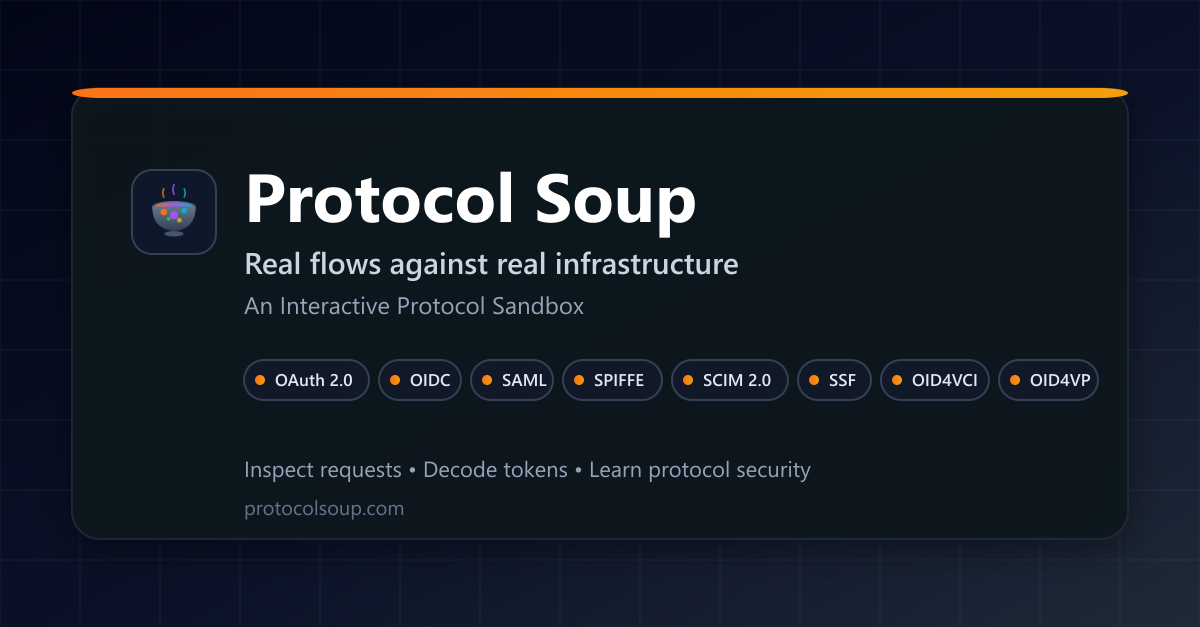
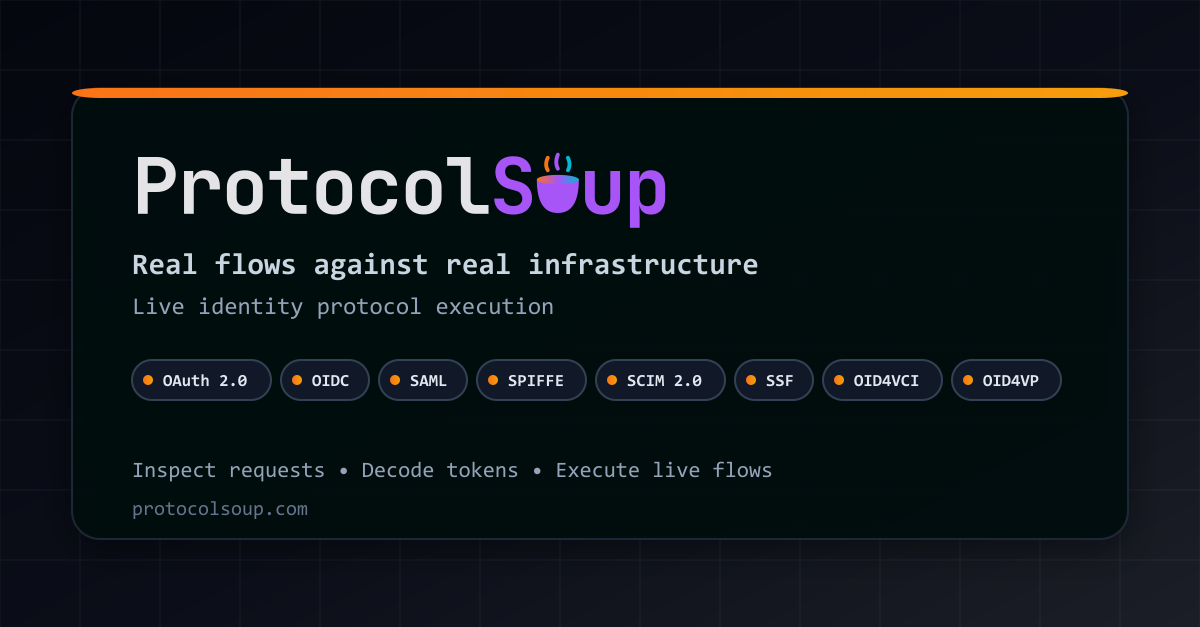
UPDATE frontend share images to a shared GEL template on the indigo canvas

diff --git a/frontend/src/app/opengraph-image.tsx b/frontend/src/app/opengraph-image.tsx
@@ -1,84 +1,22 @@
 import { ImageResponse } from 'next/og'
 import { SITE_CONFIG } from '@/config/seo'
+import { OG_CONTENT_TYPE, OG_SIZE, OgCard, ogFonts } from '@/lib/og'
 
 export const runtime = 'edge'
-export const contentType = 'image/png'
-export const size = {
-  width: 1200,
-  height: 630,
-}
+export const contentType = OG_CONTENT_TYPE
+export const size = OG_SIZE
 export const alt = 'ProtocolSoup - Live Identity Protocol Execution'
 
-export default function OpenGraphImage() {
+export default async function OpenGraphImage() {
   return new ImageResponse(
     (
-      <div
-        style={{
-          width: '100%',
-          height: '100%',
-          display: 'flex',
-          flexDirection: 'column',
-          justifyContent: 'space-between',
-          padding: '56px',
-          background:
-            'radial-gradient(circle at 90% 10%, rgba(168,85,247,0.35), transparent 45%), radial-gradient(circle at 10% 90%, rgba(6,182,212,0.3), transparent 40%), linear-gradient(135deg, #0a0a0f 0%, #101018 100%)',
-          color: '#e4e4e7',
-          fontFamily: 'system-ui, sans-serif',
-        }}
-      >
-        <div
-          style={{
-            display: 'flex',
-            alignItems: 'center',
-            gap: 16,
-            fontSize: 34,
-            fontWeight: 700,
-            letterSpacing: '-0.02em',
-          }}
-        >
-          <span>ProtocolSoup</span>
-          <span style={{ fontSize: 30 }}>🍜</span>
-        </div>
-
-        <div style={{ display: 'flex', flexDirection: 'column', gap: 18 }}>
-          <div
-            style={{
-              fontSize: 56,
-              lineHeight: 1.06,
-              fontWeight: 700,
-              maxWidth: 980,
-              letterSpacing: '-0.02em',
-            }}
-          >
-            Run Real OAuth, OIDC, OID4VCI, OID4VP, SAML, SPIFFE, SCIM, and SSF Flows
-          </div>
-          <div
-            style={{
-              fontSize: 24,
-              lineHeight: 1.35,
-              color: '#a1a1aa',
-              maxWidth: 1040,
-            }}
-          >
-            Execute live protocol exchanges, inspect wire traffic, and decode tokens step-by-step.
-          </div>
-        </div>
-
-        <div
-          style={{
-            display: 'flex',
-            justifyContent: 'space-between',
-            alignItems: 'center',
-            fontSize: 20,
-            color: '#cbd5e1',
-          }}
-        >
-          <span>{SITE_CONFIG.baseUrl.replace(/^https?:\/\//, '')}</span>
-          <span>Live identity protocol execution</span>
-        </div>
-      </div>
+      <OgCard
+        title="Run real OAuth, OIDC, OID4VCI, OID4VP, SAML, SPIFFE, SCIM, and SSF flows"
+        description="Execute live protocol exchanges, inspect wire traffic, and decode tokens step-by-step."
+        host={SITE_CONFIG.baseUrl.replace(/^https?:\/\//, '')}
+        footer="Live identity protocol execution"
+      />
     ),
-    size,
+    { ...size, fonts: await ogFonts() },
   )
 }
-

diff --git a/frontend/src/lib/og.tsx b/frontend/src/lib/og.tsx
@@ -1,0 +1,75 @@
+import type { ReactNode } from 'react'
+import { WORDMARK_DARK, WordmarkArt } from '@/components/common/Brand'
+
+/** Shared frame for the next/og social cards so every share preview carries the same lockup. */
+
+export const OG_SIZE = { width: 1200, height: 630 }
+export const OG_CONTENT_TYPE = 'image/png'
+export const OG_FONT = 'JetBrains Mono'
+
+// Satori needs static TTF/OTF/WOFF data; the variable woff2 the app uses is not supported.
+// The URLs must be literal so the bundler ships only these two files.
+async function fontData(url: URL) {
+  const res = await fetch(url)
+  if (!res.ok) throw new Error(`OG font fetch failed: ${res.status} ${url}`)
+  return res.arrayBuffer()
+}
+
+export async function ogFonts() {
+  const [regular, bold] = await Promise.all([
+    fontData(new URL('../../node_modules/@fontsource/jetbrains-mono/files/jetbrains-mono-latin-400-normal.woff', import.meta.url)),
+    fontData(new URL('../../node_modules/@fontsource/jetbrains-mono/files/jetbrains-mono-latin-700-normal.woff', import.meta.url)),
+  ])
+  return [
+    { name: OG_FONT, data: regular, weight: 400 as const, style: 'normal' as const },
+    { name: OG_FONT, data: bold, weight: 700 as const, style: 'normal' as const },
+  ]
+}
+
+export function OgCard({
+  kicker,
+  title,
+  description,
+  footer,
+  host,
+}: {
+  kicker?: string
+  title: ReactNode
+  description: string
+  footer: string
+  host: string
+}) {
+  return (
+    <div
+      style={{
+        width: '100%',
+        height: '100%',
+        display: 'flex',
+        flexDirection: 'column',
+        justifyContent: 'space-between',
+        padding: '56px 64px',
+        background:
+          'radial-gradient(circle at 90% 10%, rgba(168,85,247,0.30), transparent 42%), radial-gradient(circle at 10% 90%, rgba(6,182,212,0.24), transparent 40%), linear-gradient(135deg, #05070f 0%, #0b0e18 100%)',
+        color: '#e4e4e7',
+        fontFamily: OG_FONT,
+      }}
+    >
+      <div style={{ display: 'flex', alignItems: 'center', justifyContent: 'space-between' }}>
+        <WordmarkArt id="og" colors={WORDMARK_DARK} height={44} />
+        {kicker ? <span style={{ fontSize: 24, color: '#a1a1aa', letterSpacing: '0.02em' }}>{kicker}</span> : null}
+      </div>
+
+      <div style={{ display: 'flex', flexDirection: 'column', gap: 20 }}>
+        <div style={{ fontSize: 54, lineHeight: 1.08, fontWeight: 700, letterSpacing: '-0.025em', maxWidth: 1040 }}>
+          {title}
+        </div>
+        <div style={{ fontSize: 24, lineHeight: 1.4, color: '#a1a1aa', maxWidth: 1040 }}>{description}</div>
+      </div>
+
+      <div style={{ display: 'flex', justifyContent: 'space-between', alignItems: 'center', fontSize: 20, color: '#71717a' }}>
+        <span style={{ color: '#06b6d4' }}>{host}</span>
+        <span>{footer}</span>
+      </div>
+    </div>
+  )
+}

diff --git a/frontend/src/app/twitter-image.tsx b/frontend/src/app/twitter-image.tsx
@@ -1,51 +1,22 @@
 import { ImageResponse } from 'next/og'
 import { SITE_CONFIG } from '@/config/seo'
+import { OG_CONTENT_TYPE, OG_SIZE, OgCard, ogFonts } from '@/lib/og'
 
 export const runtime = 'edge'
-export const contentType = 'image/png'
-export const size = {
-  width: 1200,
-  height: 630,
-}
+export const contentType = OG_CONTENT_TYPE
+export const size = OG_SIZE
 export const alt = 'ProtocolSoup - Live Identity Protocol Execution'
 
-export default function TwitterImage() {
+export default async function TwitterImage() {
   return new ImageResponse(
     (
-      <div
-        style={{
-          width: '100%',
-          height: '100%',
-          display: 'flex',
-          flexDirection: 'column',
-          justifyContent: 'space-between',
-          padding: '52px',
-          background:
-            'radial-gradient(circle at 85% 15%, rgba(249,115,22,0.28), transparent 38%), radial-gradient(circle at 12% 88%, rgba(6,182,212,0.25), transparent 36%), linear-gradient(135deg, #08080d 0%, #121225 100%)',
-          color: '#f4f4f5',
-          fontFamily: 'system-ui, sans-serif',
-        }}
-      >
-        <div style={{ display: 'flex', alignItems: 'center', gap: 14 }}>
-          <span style={{ fontSize: 34, fontWeight: 700 }}>ProtocolSoup</span>
-          <span style={{ fontSize: 28 }}>🍜</span>
-        </div>
-
-        <div style={{ display: 'flex', flexDirection: 'column', gap: 14 }}>
-          <div style={{ fontSize: 50, lineHeight: 1.08, fontWeight: 700, letterSpacing: '-0.02em' }}>
-            Live Identity Protocol Execution
-          </div>
-          <div style={{ fontSize: 24, lineHeight: 1.3, color: '#d4d4d8' }}>
-            OAuth 2.0, OIDC, OID4VCI, OID4VP, SAML, SPIFFE, SCIM, and SSF.
-          </div>
-        </div>
-
-        <div style={{ fontSize: 19, color: '#cbd5e1' }}>
-          {SITE_CONFIG.baseUrl.replace(/^https?:\/\//, '')}
-        </div>
-      </div>
+      <OgCard
+        title="Live identity protocol execution"
+        description="OAuth 2.0, OIDC, OID4VCI, OID4VP, SAML, SPIFFE, SCIM, and SSF against real infrastructure."
+        host={SITE_CONFIG.baseUrl.replace(/^https?:\/\//, '')}
+        footer="Inspect requests · Decode tokens · Execute live flows"
+      />
     ),
-    size,
+    { ...size, fonts: await ogFonts() },
   )
 }
-

diff --git a/frontend/src/app/protocol/[protocolId]/opengraph-image.tsx b/frontend/src/app/protocol/[protocolId]/opengraph-image.tsx
@@ -1,12 +1,11 @@
 import { ImageResponse } from 'next/og'
+import { SITE_CONFIG } from '@/config/seo'
+import { OG_CONTENT_TYPE, OG_SIZE, OgCard, ogFonts } from '@/lib/og'
 import { getCatalogProtocol } from '@/protocols/presentation/protocol-catalog-data'
 
 export const runtime = 'edge'
-export const contentType = 'image/png'
-export const size = {
-  width: 1200,
-  height: 630,
-}
+export const contentType = OG_CONTENT_TYPE
+export const size = OG_SIZE
 
 interface ProtocolImageProps {
   params: Promise<{ protocolId: string }>
@@ -22,38 +21,14 @@ export default async function ProtocolOpenGraphImage({ params }: ProtocolImagePr
 
   return new ImageResponse(
     (
-      <div
-        style={{
-          width: '100%',
-          height: '100%',
-          display: 'flex',
-          flexDirection: 'column',
-          justifyContent: 'space-between',
-          padding: '56px',
-          background:
-            'radial-gradient(circle at 88% 12%, rgba(99,102,241,0.34), transparent 40%), radial-gradient(circle at 8% 85%, rgba(6,182,212,0.25), transparent 38%), linear-gradient(135deg, #0a0a0f 0%, #111827 100%)',
-          color: '#f4f4f5',
-          fontFamily: 'system-ui, sans-serif',
-        }}
-      >
-        <div style={{ display: 'flex', alignItems: 'center', gap: 12, fontSize: 30, fontWeight: 700 }}>
-          <span>ProtocolSoup</span>
-          <span style={{ fontSize: 26 }}>🍜</span>
-        </div>
-
-        <div style={{ display: 'flex', flexDirection: 'column', gap: 16 }}>
-          <div style={{ fontSize: 62, lineHeight: 1.02, fontWeight: 800, letterSpacing: '-0.03em' }}>
-            {title}
-          </div>
-          <div style={{ fontSize: 28, lineHeight: 1.28, color: '#cbd5e1', maxWidth: 1060 }}>
-            {description}
-          </div>
-        </div>
-
-        <div style={{ fontSize: 21, color: '#93c5fd' }}>Protocol reference + live Looking Glass runs</div>
-      </div>
+      <OgCard
+        kicker="protocol"
+        title={title}
+        description={description}
+        host={SITE_CONFIG.baseUrl.replace(/^https?:\/\//, '')}
+        footer="Protocol reference + live Looking Glass runs"
+      />
     ),
-    size,
+    { ...size, fonts: await ogFonts() },
   )
 }
-

diff --git a/frontend/src/app/protocol/[protocolId]/flow/[flowId]/opengraph-image.tsx b/frontend/src/app/protocol/[protocolId]/flow/[flowId]/opengraph-image.tsx
@@ -1,15 +1,14 @@
 import { ImageResponse } from 'next/og'
+import { SITE_CONFIG } from '@/config/seo'
+import { OG_CONTENT_TYPE, OG_SIZE, OgCard, ogFonts } from '@/lib/og'
 import {
   getCatalogFlow,
   getCatalogProtocol,
 } from '@/protocols/presentation/protocol-catalog-data'
 
 export const runtime = 'edge'
-export const contentType = 'image/png'
-export const size = {
-  width: 1200,
-  height: 630,
-}
+export const contentType = OG_CONTENT_TYPE
+export const size = OG_SIZE
 
 interface FlowImageProps {
   params: Promise<{ protocolId: string; flowId: string }>
@@ -25,39 +24,14 @@ export default async function FlowOpenGraphImage({ params }: FlowImageProps) {
 
   return new ImageResponse(
     (
-      <div
-        style={{
-          width: '100%',
-          height: '100%',
-          display: 'flex',
-          flexDirection: 'column',
-          justifyContent: 'space-between',
-          padding: '54px',
-          background:
-            'radial-gradient(circle at 90% 8%, rgba(168,85,247,0.3), transparent 40%), radial-gradient(circle at 8% 88%, rgba(14,165,233,0.28), transparent 35%), linear-gradient(135deg, #09090f 0%, #111827 100%)',
-          color: '#f8fafc',
-          fontFamily: 'system-ui, sans-serif',
-        }}
-      >
-        <div style={{ fontSize: 28, color: '#93c5fd', fontWeight: 700 }}>
-          {protocolName}
-        </div>
-
-        <div style={{ display: 'flex', flexDirection: 'column', gap: 14 }}>
-          <div style={{ fontSize: 56, lineHeight: 1.06, fontWeight: 800, letterSpacing: '-0.02em' }}>
-            {flowName}
-          </div>
-          <div style={{ fontSize: 26, color: '#d4d4d8' }}>
-            Step-by-step flow breakdown and live protocol execution
-          </div>
-        </div>
-
-        <div style={{ fontSize: 20, color: '#cbd5e1' }}>
-          protocolsoup.com
-        </div>
-      </div>
+      <OgCard
+        kicker={protocolName}
+        title={flowName}
+        description="Step-by-step flow breakdown and live protocol execution."
+        host={SITE_CONFIG.baseUrl.replace(/^https?:\/\//, '')}
+        footer="Looking Glass"
+      />
     ),
-    size,
+    { ...size, fonts: await ogFonts() },
   )
 }
-
